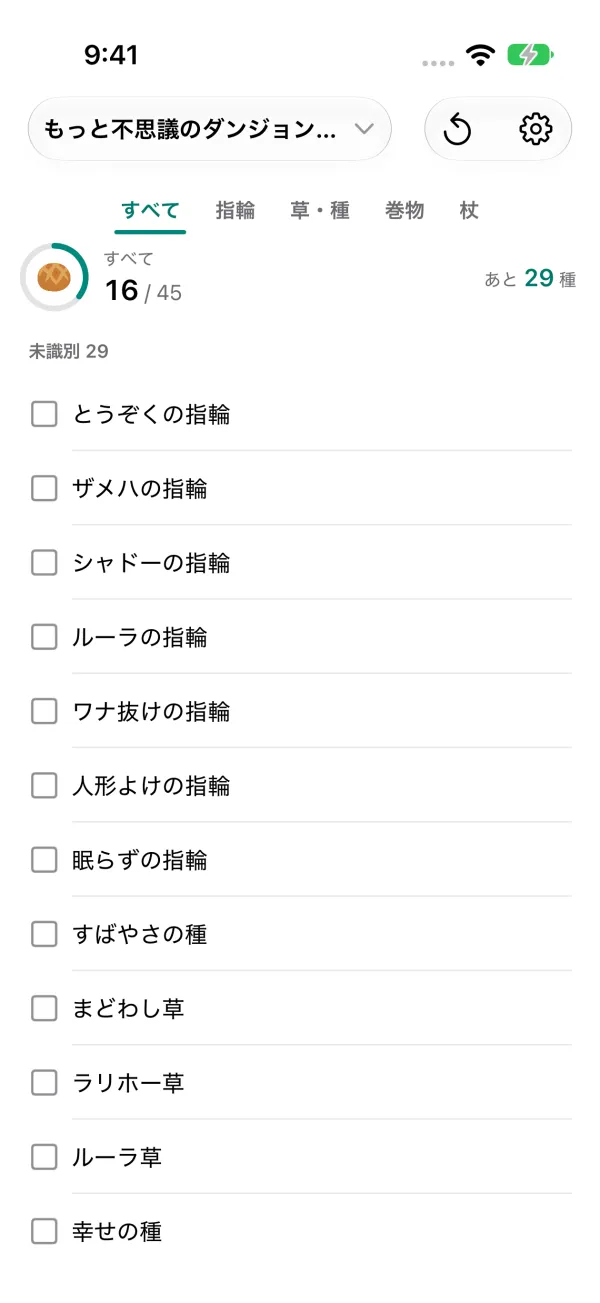
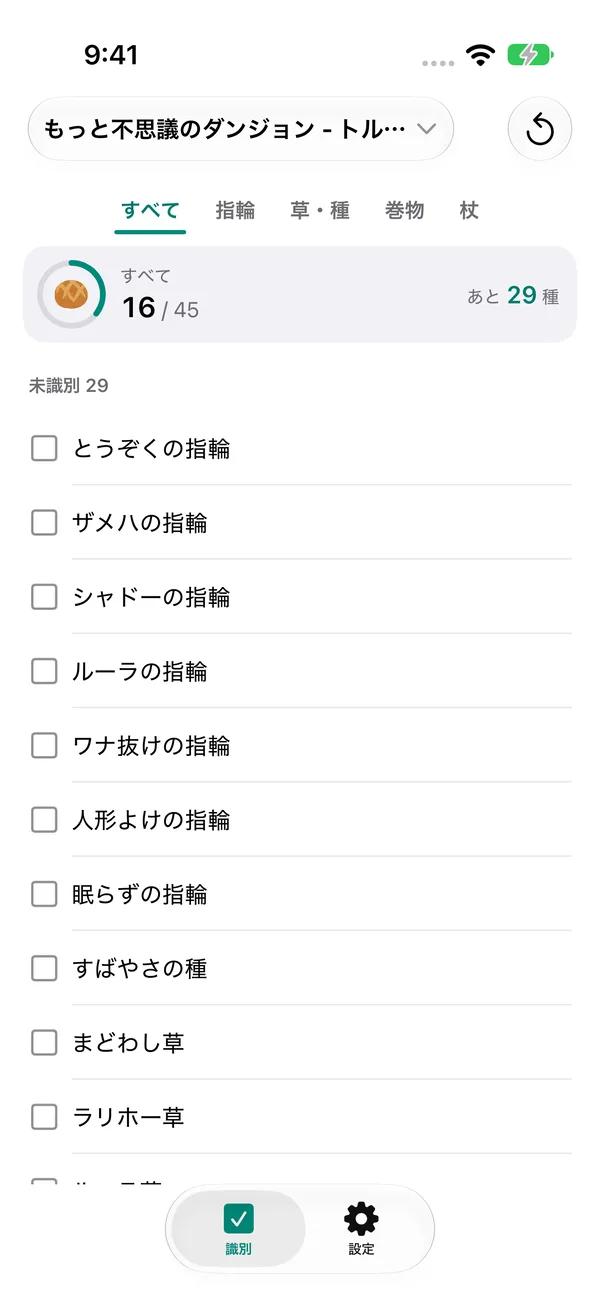
識別のアプリの紹介ページを 2.2.0 の画面にする
設定がタブバーに移り、ダンジョン選択が全画面のリストになったため、スクリーンショット 3 枚と OGP 画像を撮り直す。
画像の代替テキストと説明文も今の画面に合わせ、対応作品・ダンジョン数を冒頭に書く。

diff --git a/identify-app/index.html b/identify-app/index.html
@@ -156,7 +156,7 @@
     <img class="icon" src="./img/icon.png" alt="">
     <h1>識別のアプリ</h1>
     <p class="sub">不思議のダンジョンのアイテム識別をサポート</p>
-    <p class="lede">「風来のシレン」や「トルネコの大冒険」の “もっと不思議のダンジョン” を攻略するためのアプリです。識別したアイテムをチェックして、未識別のアイテムをひと目で絞り込めます。杖・壺の価格チャートや、おまじないの記録にも対応しています。</p>
+    <p class="lede">「風来のシレン」や「トルネコの大冒険」の “もっと不思議のダンジョン” を攻略するためのアプリで、10 作品・15 ダンジョンに対応しています。識別したアイテムをチェックして、未識別のアイテムをひと目で絞り込めます。杖・壺の価格チャートや、おまじないの記録にも対応しています。</p>
     <a class="cta" href="https://apps.apple.com/jp/app/id1558625294">
       <svg viewBox="0 0 384 512" aria-hidden="true"><path d="M318.7 268.7c-.2-36.7 16.4-64.4 50-84.8-18.8-26.9-47.2-41.7-84.7-44.6-35.5-2.8-74.3 20.7-88.5 20.7-15 0-49.4-19.7-76.4-19.7C63.3 141.2 4 184.8 4 273.5q0 39.3 14.4 81.2c12.8 36.7 59 126.7 107.2 125.2 25.2-.6 43-17.9 75.8-17.9 31.8 0 48.3 17.9 76.4 17.9 48.6-.7 90.4-82.5 102.6-119.3-65.2-30.7-61.7-90-61.7-91.9zm-56.6-164.2c27.3-32.4 24.8-61.9 24-72.5-24.1 1.4-52 16.4-67.9 34.9-17.5 19.8-27.8 44.3-25.6 71.9 26.1 2 49.9-11.4 69.5-34.3z"/></svg>
       App Store で見る
@@ -165,9 +165,9 @@
   </section>
 
   <section class="wrap shots">
-    <img src="./img/01-item-list.webp" width="600" height="1303" loading="lazy" alt="トルネコの大冒険・もっと不思議のダンジョンの識別アイテムリスト。識別率のリングと識別数 16 / 45、残り 29 種。未識別のアイテムが上にまとまっている。">
+    <img src="./img/01-item-list.webp" width="600" height="1303" loading="lazy" alt="トルネコの大冒険・もっと不思議のダンジョンの識別アイテムリスト。上部のカードに識別率のリングと識別数 16 / 45、残り 29 種。未識別のアイテムが上にまとまっている。">
     <img src="./img/02-category.webp" width="600" height="1303" loading="lazy" alt="草・種のタブを開いた識別アイテムリスト。未識別 7 種の下に、識別済みの草・種がまとまっている。">
-    <img src="./img/03-dungeon-menu.webp" width="600" height="1303" loading="lazy" alt="ダンジョン選択を開いた状態。作品ごとにダンジョンが並ぶ。">
+    <img src="./img/03-dungeon-menu.webp" width="600" height="1303" loading="lazy" alt="画面いっぱいに開いたダンジョン選択。作品ごとにダンジョンが 1 行ずつ並び、選択中のダンジョンにチェックが付いている。">
   </section>
 
   <section class="wrap features">
@@ -191,12 +191,12 @@
       <div class="card">
         <span class="dot"></span>
         <h3>識別率がひと目で分かる</h3>
-        <p>カテゴリごとの識別率をアイコンのまわりのリングで表示します。すべて識別すると王冠が付きます。カテゴリはタブのタップか左右のスワイプで切り替えられます。</p>
+        <p>カテゴリごとの識別率と残りの数を、画面上部のカードにリングで表示します。すべて識別すると王冠が付きます。カテゴリはタブのタップか左右のスワイプで切り替えられます。</p>
       </div>
       <div class="card">
         <span class="dot"></span>
         <h3>ダンジョンの切り替えはワンタップ</h3>
-        <p>画面上部のダンジョン名をタップするだけで、作品・ダンジョンを切り替えられます。チェックの状態はダンジョンごとに保存されます。</p>
+        <p>画面上部のダンジョン名をタップすると、作品ごとのダンジョン一覧が開きます。長い名前も省略せずに表示します。チェックの状態はダンジョンごとに保存されます。</p>
       </div>
       <div class="card">
         <span class="dot"></span>
